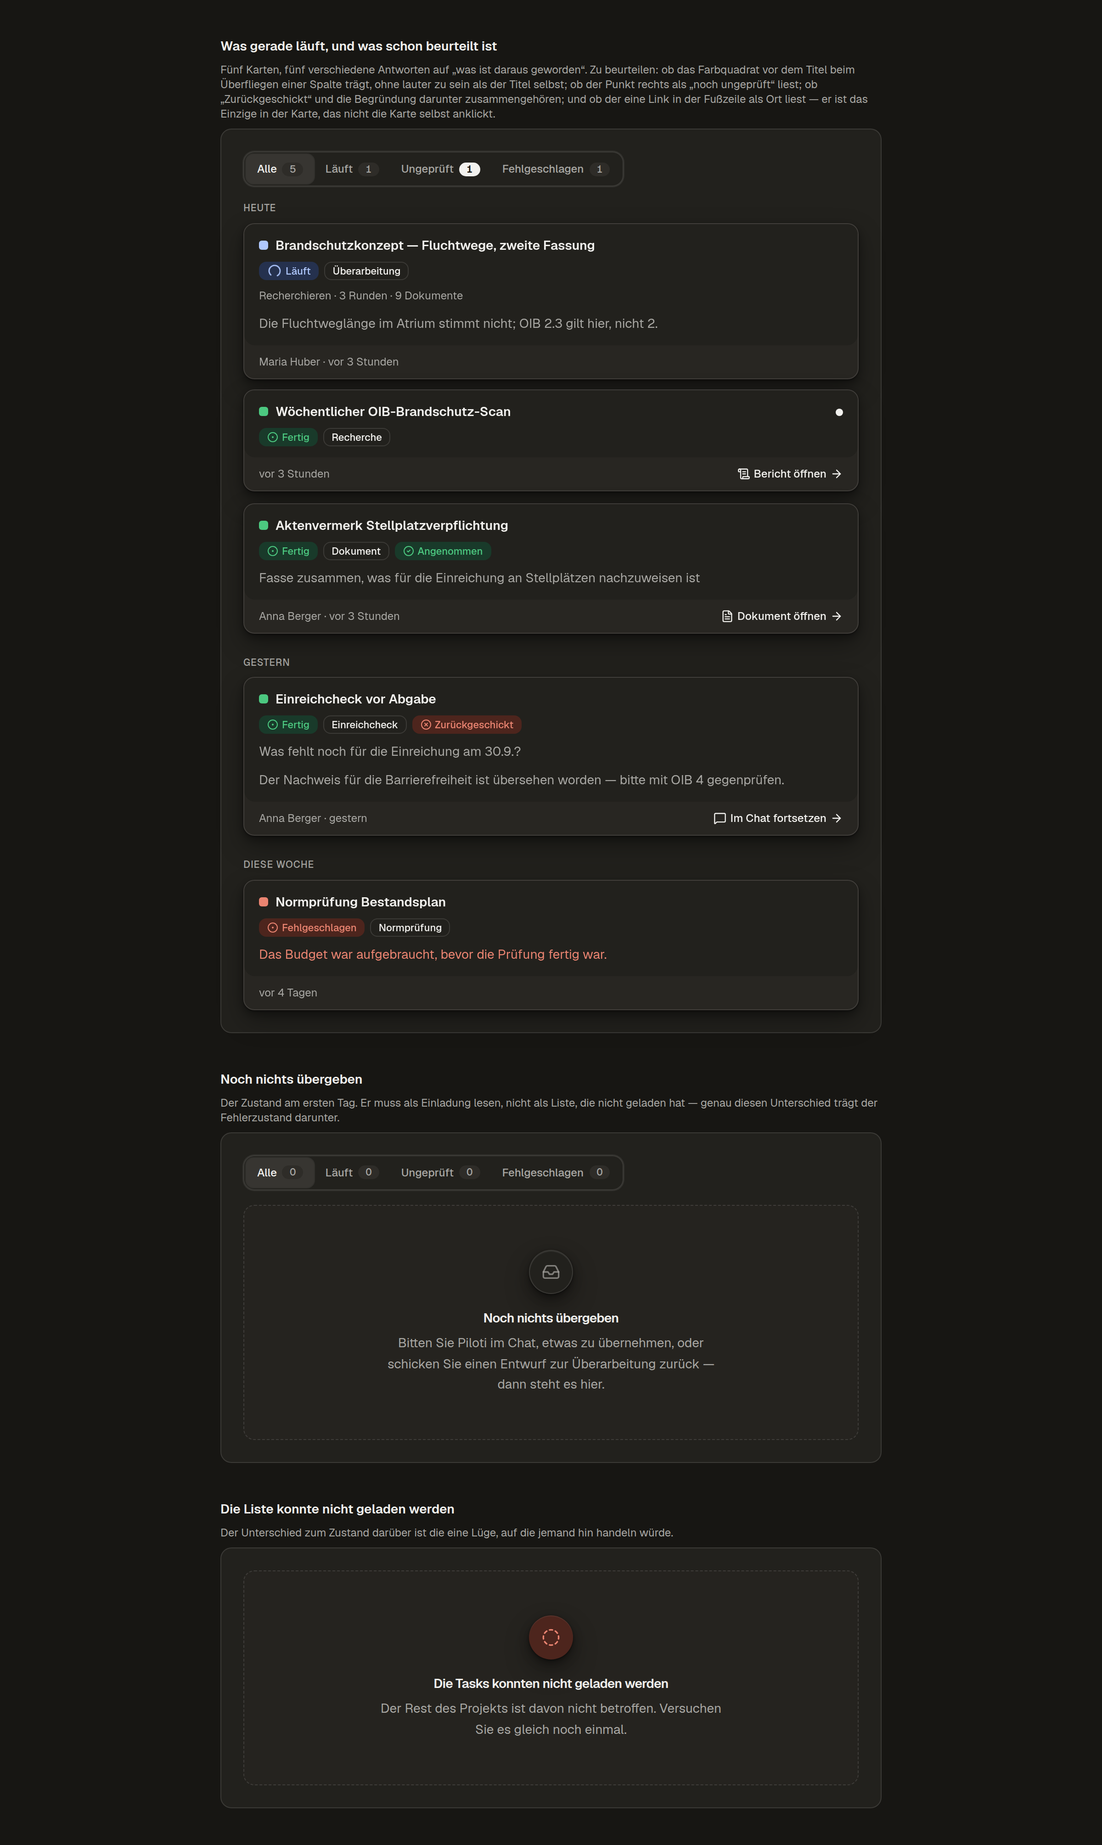
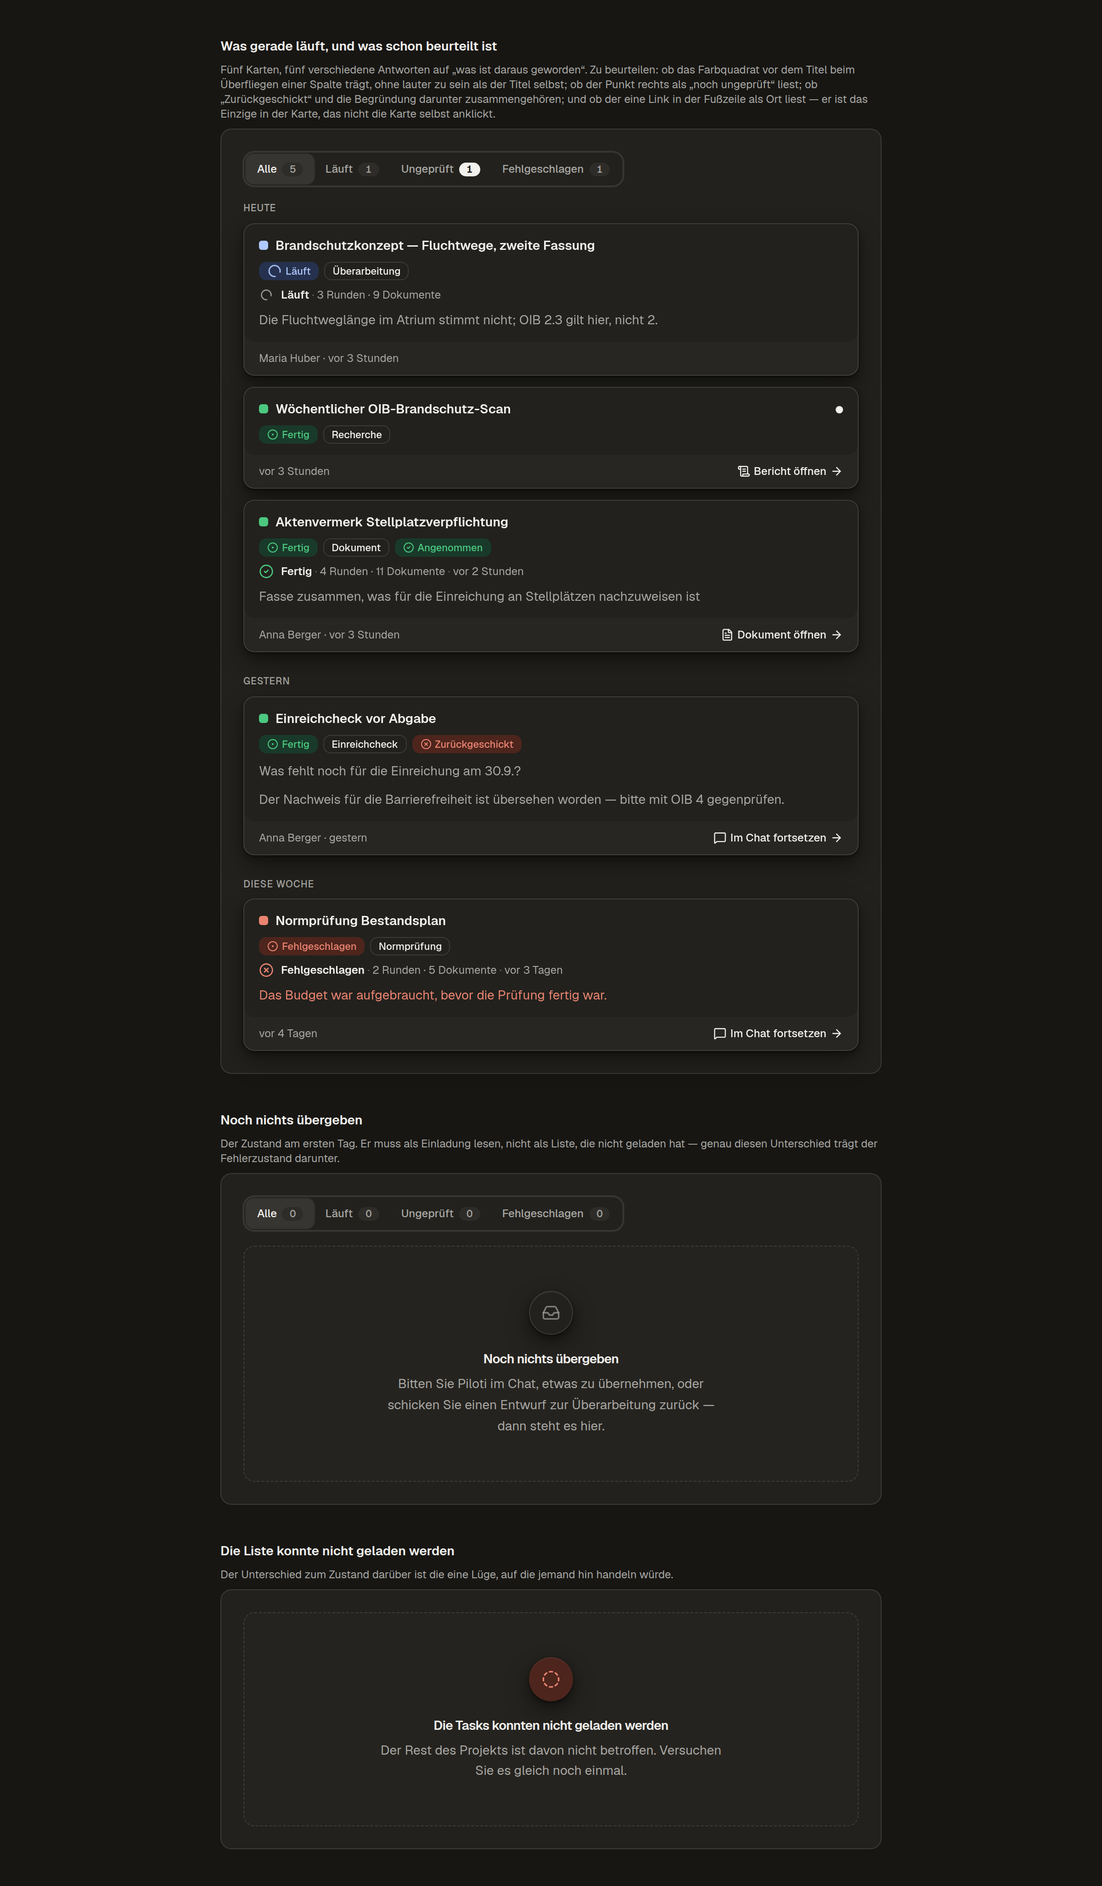
refactor(tasks): a task card shows the run line, not a second account of it
The card had its own sentence for what a run was doing — phase, rounds,
documents, assembled from the summary by hand — and it was shown only while
the task was active. Two renderers for one run is one retune away from two
different stories, and hiding the line once the run ends throws away the fact
that says how much work stands behind the result.

The card now composes `RunBlockLine`, the block's header reduced to a line:
the same glyph, the same status word, the same tallies, for every row that
has a run, dated by when it finished once it has. The projection loses the
phase it no longer needs and keeps the three facts that cross the wire.

`isActiveTaskRunStatus` moves into the vocabulary beside the statuses it
reads, where the run primitive can reach it too.

Claude-Session: https://claude.ai/code/session_01VczwjwUggBBYj9NgiX4XHk

diff --git a/frontends/ui/src/features/tasks/components/task-card.tsx b/frontends/ui/src/features/tasks/components/task-card.tsx
@@ -42,24 +42,12 @@ import type { LucideIcon } from 'lucide-react'
 import { Chip } from '@/components/ui/chip'
 import { RaisedCard, RaisedCardBody, RaisedCardFooter } from '@/components/ui/raised-card'
 import { Spinner } from '@/components/ui/spinner'
-import { useLocale, useTranslations, type Translator } from '@/i18n'
+import { RunBlockLine } from '@/features/runs/components/RunBlockLine'
+import { useLocale, useTranslations } from '@/i18n'
 import { formatAbsoluteTime, formatRelativeTime } from '@/lib/format'
 import type { TaskRunStatus } from '@/lib/tasks/task-vocabulary'
 import { cn } from '@/lib/utils'
-import { isActiveTask, taskResultTarget, type TaskRunSummary, type TaskWireRow } from '../lib/task-view'
-
-/**
- * "Recherchieren · 3 Runden · 9 Dokumente" — what the run is doing, as words.
- * The phase when one is open, else the status word (a run that is starting has
- * no phase yet); a tally only when it is above zero, because "0 Runden" is a
- * number that changes nothing for the reader.
- */
-function runSummaryLine(tRuns: Translator, summary: TaskRunSummary): string {
-  const parts = [summary.phase ? tRuns(`phase.${summary.phase}`) : tRuns(`status.${summary.status}`)]
-  if (summary.rounds > 0) parts.push(tRuns('tallies.rounds', { count: summary.rounds }))
-  if (summary.docs > 0) parts.push(tRuns('tallies.docs', { count: summary.docs }))
-  return parts.join(' · ')
-}
+import { isActiveTask, taskResultTarget, type TaskWireRow } from '../lib/task-view'
 
 /**
  * The chip tone per status — a `Record`, so a status added to the tuple has to
@@ -144,7 +132,6 @@ export interface TaskCardProps {
 
 export function TaskCard({ projectId, task, onSelect }: TaskCardProps): JSX.Element {
   const t = useTranslations('tasks')
-  const tRuns = useTranslations('runs')
   const { locale } = useLocale()
   const ReviewIcon = task.review ? REVIEW_ICON[task.review] : null
   const result = taskResultTarget(projectId, task)
@@ -227,14 +214,23 @@ export function TaskCard({ projectId, task, onSelect }: TaskCardProps): JSX.Elem
                 )}
               </div>
 
-              {/* What the run is doing right now, while it is doing it: the
-                  phase and the two tallies off the run's ledger (ADR-0062).
-                  Muted and one line — the card is about the task, and the
+              {/* The run, as the block's header reduced to one line: the same
+                  glyph, the same status word and the same tallies the thread
+                  shows, off the run's ledger (ADR-0062), so the index row and
+                  the block cannot disagree about the run they both describe.
+                  Without the title (the heading above IS the title) and
+                  without the trailing link (the tray's result link is the way
+                  into the thread); a finished row dates the line by when it
+                  finished. Compact — the card is about the task, and the
                   block in the thread is where the run is followed. */}
-              {active && task.runSummary && (
-                <p className="text-muted-foreground text-xs leading-relaxed" data-testid="task-run-summary">
-                  {runSummaryLine(tRuns, task.runSummary)}
-                </p>
+              {task.runSummary && (
+                <RunBlockLine
+                  ledger={null}
+                  status={task.runSummary.status}
+                  tallies={task.runSummary}
+                  at={active ? undefined : (task.finishedAt ?? undefined)}
+                  className="min-h-0 text-xs"
+                />
               )}
 
               {/* The requester's own sentence, clamped: in a column of cards an

diff --git a/frontends/ui/src/lib/tasks/list-projection.ts b/frontends/ui/src/lib/tasks/list-projection.ts
@@ -15,14 +15,17 @@
  *
  * ## The run summary
  *
- * An active row also carries what its run is doing, read off the run message's
- * ledger (ADR-0062) — the one muted line the card shows under its title. It is
- * a SECOND query, not a join: `task_runs` and `messages` are joined by an id
- * the run row holds, one page of runs is at most `RUN_LIST_LIMIT` rows, and
- * only the ACTIVE ones among them are looked up, because that is the only
- * state the card shows the line in. Four numbers cross the wire per row, never
- * the ledger: a run that has read fifty documents has a ledger the size of a
- * report, and a list of a hundred rows must not carry a hundred of them.
+ * A row also carries what its run did, read off the run message's ledger
+ * (ADR-0062) — the compact run line the card shows under its title, which is
+ * the block's header in the thread reduced to its glyph, its word and its
+ * tallies, so the index and the thread cannot disagree about one run. It is a
+ * SECOND query, not a join: `task_runs` and `messages` are joined by an id the
+ * run row holds, one page of runs is at most `RUN_LIST_LIMIT` rows, and every
+ * row on it that has a run message is looked up — a finished row shows its
+ * line too, because „Fertig · 3 Runden · 9 Dokumente" is how much work stands
+ * behind the result. Three facts cross the wire per row, never the ledger: a
+ * run that has read fifty documents has a ledger the size of a report, and a
+ * list of a hundred rows must not carry a hundred of them.
  */
 
 import 'server-only'
@@ -31,11 +34,8 @@ import { listRunLedgersByMessageIds } from '@/lib/conversations/repository'
 import type { TaskRun } from '@/lib/db/schema'
 import { sanitizeRunLedger } from '@/lib/runs/run-ledger'
 import type { RunLedger } from '@/lib/runs/run-ledger-types'
-import { activePhase, runDisplayStatus, runTallies } from '@/lib/runs/run-vocabulary'
+import { runDisplayStatus, runTallies } from '@/lib/runs/run-vocabulary'
 import { RUN_LIST_LIMIT } from './repository'
-
-/** The rows whose card shows the line. The same set `isActiveTask` draws. */
-const SUMMARISED_STATUSES: ReadonlySet<TaskRun['status']> = new Set(['queued', 'running'])
 
 export function toTaskWireRow(
   task: TaskRun,
@@ -82,24 +82,22 @@ export function toTaskWireRow(
   }
 }
 
-/** The four facts the card line needs, derived the way the block derives them. */
+/** The three facts the card line needs, derived the way the block derives them. */
 export function runSummaryOf(ledger: RunLedger | null): TaskRunSummary | null {
   if (!ledger) return null
   const { rounds, docs } = runTallies(ledger)
-  return { status: runDisplayStatus(ledger), phase: activePhase(ledger), rounds, docs }
+  return { status: runDisplayStatus(ledger), rounds, docs }
 }
 
 /**
- * The run summary of every ACTIVE run on the page that has a run message,
- * keyed by run id. One query, bounded to the page; a row whose ledger is
- * missing or unreadable simply has no entry.
+ * The run summary of every run on the page that has a run message, keyed by
+ * run id. One query, bounded to the page; a row whose ledger is missing or
+ * unreadable simply has no entry.
  */
 export async function loadRunSummaries(runs: readonly TaskRun[]): Promise<Map<string, TaskRunSummary>> {
   const messageIdByRun = new Map<string, string>()
   for (const run of runs.slice(0, RUN_LIST_LIMIT)) {
-    if (SUMMARISED_STATUSES.has(run.status) && run.runMessageId) {
-      messageIdByRun.set(run.id, run.runMessageId)
-    }
+    if (run.runMessageId) messageIdByRun.set(run.id, run.runMessageId)
   }
   if (messageIdByRun.size === 0) return new Map()
 

diff --git a/frontends/ui/src/features/tasks/components/task-list.spec.tsx b/frontends/ui/src/features/tasks/components/task-list.spec.tsx
@@ -61,36 +61,57 @@ describe('a task card', () => {
     expect(screen.getByTestId('task-status')).toHaveTextContent('Running')
   })
 
-  test('says what the run is doing while it is doing it, and nothing once it is done', () => {
-    const runSummary = { status: 'laeuft' as const, phase: 'recherchieren' as const, rounds: 3, docs: 9 }
+  test('wears the run block’s own line — glyph, status word, tallies — under the title', () => {
+    const runSummary = { status: 'laeuft' as const, rounds: 3, docs: 9 }
     const { rerender } = list({ tasks: [task({ status: 'running', runSummary })] })
-    expect(screen.getByTestId('task-run-summary')).toHaveTextContent('Researching · 3 rounds · 9 documents')
+    const line = screen.getByTestId('run-block-line')
+    expect(line).toHaveAttribute('data-status', 'laeuft')
+    expect(screen.getByTestId('run-glyph-laeuft')).toBeInTheDocument()
+    // The spinner speaks its label too, so the text is matched, not anchored.
+    expect(line).toHaveTextContent('Running · 3 rounds · 9 documents')
+    // No title (the heading is the title) and no link (the tray's is).
+    expect(screen.queryByTestId('run-line-open')).not.toBeInTheDocument()
 
-    // A run that is starting has no phase yet: the status word stands in, and
-    // zero tallies are left out rather than shown as zeros.
+    // A run that is starting: the word alone, and zero tallies are left out
+    // rather than shown as zeros.
     rerender(
       <TaskList
         projectId="p1"
-        tasks={[task({ status: 'queued', runSummary: { status: 'angelegt', phase: null, rounds: 0, docs: 0 } })]}
+        tasks={[task({ status: 'queued', runSummary: { status: 'angelegt', rounds: 0, docs: 0 } })]}
         filter={'all' as TaskFilter}
         onFilterChange={vi.fn()}
         onSelectTask={vi.fn()}
       />,
     )
-    expect(screen.getByTestId('task-run-summary')).toHaveTextContent(/^Starting$/)
+    expect(screen.getByTestId('run-block-line')).not.toHaveTextContent('round')
 
-    // Finished: the card is about the task again; the block in the thread is
-    // where the run is read.
+    // Finished: the same line with the block's word for done, dated by when
+    // it finished — the tallies say how much work stands behind the result.
     rerender(
       <TaskList
         projectId="p1"
-        tasks={[task({ status: 'succeeded', runSummary })]}
+        tasks={[
+          task({
+            status: 'succeeded',
+            finishedAt: '2026-09-16T05:00:00.000Z',
+            runSummary: { ...runSummary, status: 'fertig' },
+          }),
+        ]}
         filter={'all' as TaskFilter}
         onFilterChange={vi.fn()}
         onSelectTask={vi.fn()}
       />,
     )
-    expect(screen.queryByTestId('task-run-summary')).not.toBeInTheDocument()
+    const done = screen.getByTestId('run-block-line')
+    expect(done).toHaveAttribute('data-status', 'fertig')
+    expect(done).toHaveTextContent(/^Done · 3 rounds · 9 documents · /)
+    expect(screen.getByTestId('run-glyph-fertig')).toBeInTheDocument()
+    expect(done.querySelector('time')).toHaveAttribute('datetime', '2026-09-16T05:00:00.000Z')
+  })
+
+  test('shows no run line for a row that has no run message', () => {
+    list({ tasks: [task({ status: 'succeeded' })] })
+    expect(screen.queryByTestId('run-block-line')).not.toBeInTheDocument()
   })
 
   test('the WHOLE card opens the detail, not a hover-underlined title', async () => {

diff --git a/frontends/ui/src/lib/tasks/list-projection.spec.ts b/frontends/ui/src/lib/tasks/list-projection.spec.ts
@@ -80,14 +80,13 @@ beforeEach(() => {
 })
 
 describe('runSummaryOf', () => {
-  it('names the open phase and counts rounds and DISTINCT documents', () => {
-    expect(runSummaryOf(ledger())).toEqual({ status: 'laeuft', phase: 'recherchieren', rounds: 2, docs: 2 })
+  it('names the display status and counts rounds and DISTINCT documents', () => {
+    expect(runSummaryOf(ledger())).toEqual({ status: 'laeuft', rounds: 2, docs: 2 })
   })
 
-  it('has no phase for a run that has not started one, and nothing for no ledger', () => {
+  it('counts nothing for a run that has not started, and nothing for no ledger', () => {
     expect(runSummaryOf(ledger({ phases: [], steps: [], status: 'angelegt' }))).toEqual({
       status: 'angelegt',
-      phase: null,
       rounds: 0,
       docs: 0,
     })
@@ -96,8 +95,13 @@ describe('runSummaryOf', () => {
 })
 
 describe('loadRunSummaries', () => {
-  it('looks up only the active rows that have a run message, in one query bounded to the page', async () => {
-    vi.mocked(listRunLedgersByMessageIds).mockResolvedValue(new Map([['msg-1', ledger()]]))
+  it('looks up every row that has a run message, finished or not, in one query bounded to the page', async () => {
+    vi.mocked(listRunLedgersByMessageIds).mockResolvedValue(
+      new Map([
+        ['msg-1', ledger()],
+        ['msg-2', ledger({ status: 'fertig' })],
+      ]),
+    )
 
     const summaries = await loadRunSummaries([
       run(),
@@ -107,14 +111,19 @@ describe('loadRunSummaries', () => {
     ])
 
     expect(listRunLedgersByMessageIds).toHaveBeenCalledTimes(1)
-    expect(listRunLedgersByMessageIds).toHaveBeenCalledWith(['msg-1', 'msg-4'])
-    expect(summaries.get('run-1')).toEqual({ status: 'laeuft', phase: 'recherchieren', rounds: 2, docs: 2 })
+    expect(listRunLedgersByMessageIds).toHaveBeenCalledWith(['msg-1', 'msg-2', 'msg-4'])
+    expect(summaries.get('run-1')).toEqual({ status: 'laeuft', rounds: 2, docs: 2 })
+    // A finished row keeps its tallies: that is how much work stands behind it.
+    expect(summaries.get('run-2')).toEqual({ status: 'fertig', rounds: 2, docs: 2 })
     // A row whose ledger is missing simply has no entry.
     expect(summaries.has('run-4')).toBe(false)
   })
 
-  it('makes no query when nothing on the page is active', async () => {
-    const summaries = await loadRunSummaries([run({ status: 'succeeded' }), run({ id: 'r2', status: 'failed' })])
+  it('makes no query when nothing on the page has a run message', async () => {
+    const summaries = await loadRunSummaries([
+      run({ status: 'succeeded', runMessageId: null }),
+      run({ id: 'r2', status: 'failed', runMessageId: null }),
+    ])
 
     expect(summaries.size).toBe(0)
     expect(listRunLedgersByMessageIds).not.toHaveBeenCalled()

diff --git a/frontends/ui/src/lib/tasks/service.ts b/frontends/ui/src/lib/tasks/service.ts
@@ -35,6 +35,7 @@ import { resolvePeople } from '@/lib/sharing/directory'
 import type { TaskWireRow } from '@/features/tasks/lib/task-view'
 import { loadRunSummaries, toTaskWireRow } from './list-projection'
 import * as repository from './repository'
+import { isActiveTaskRunStatus } from './task-vocabulary'
 import type { ReviewTaskInput } from './types'
 
 export type TaskOutcomeStatus = 'success' | 'failure' | 'interrupted'
@@ -245,9 +246,11 @@ async function fileResultFor(
  *
  * The inbox type is the existing `job.completed` / `job.failed` pair: the
  * payload already carries the ids, and a second type would be a second
- * presentation for a row that says the same thing. `actorUserId: null` because
- * the work was Piloti's, and because `emitInboxItems` drops a row whose actor
- * is its recipient.
+ * presentation for a row that says the same thing. (`job.waiting`, the third
+ * of the family, is emitted where the ledger turns to `wartet` —
+ * `lib/runs/service.ts` — because that is the only tier that sees it.)
+ * `actorUserId: null` because the work was Piloti's, and because
+ * `emitInboxItems` drops a row whose actor is its recipient.
  *
  * Idempotent: the unique `(recipient, group_key)` upsert folds a retried report
  * into the existing row.
@@ -277,6 +280,10 @@ export async function recordRunOutcome(
         jobId: run.definitionId,
         runId: run.id,
         conversationId: run.conversationId,
+        // With the message, the row lands ON the run block in its thread
+        // (ADR-0062) rather than in the task drawer; null for a run submitted
+        // before run messages existed, and the drawer is the fallback.
+        runMessageId: run.runMessageId,
         taskId: run.id,
         filedDocumentId: completed.filed?.documentId ?? null,
         filedFilename: completed.filed?.filename ?? null,
@@ -333,7 +340,7 @@ export async function reviewTask(
   await requireProjectAccess(session, projectId, 'project:edit')
   const run = await repository.findRunInProject(taskId, projectId, session.organizationId)
   if (!run) throw new NotFoundError('Task not found')
-  if (run.status === 'queued' || run.status === 'running') {
+  if (isActiveTaskRunStatus(run.status)) {
     throw new ConflictError('A task can only be reviewed once it has finished')
   }
 

diff --git a/frontends/ui/src/app/dev/task-list/page.tsx b/frontends/ui/src/app/dev/task-list/page.tsx
@@ -8,7 +8,9 @@
  *     fortnight: something running, something waiting for a person, something
  *     that was sent back with words, something that failed. What the shot is
  *     for is the CARD — the status swatch on the title line (the same rounded
- *     square the timetable's legend uses), the unreviewed dot, the recency
+ *     square the timetable's legend uses), the compact run line under the
+ *     title (the block's own glyph, word and tallies, on the running, the
+ *     finished and the failed card alike), the unreviewed dot, the recency
  *     headings that group the column, the filter row with its counts, and the
  *     one result link on the tray that is the only thing inside the card that
  *     is not the card's own click target.
@@ -55,7 +57,7 @@ const TASKS: TaskWireRow[] = [
     goal: 'Die Fluchtweglänge im Atrium stimmt nicht; OIB 2.3 gilt hier, nicht 2.',
     status: 'running',
     requesterName: 'Maria Huber',
-    runSummary: { status: 'laeuft', phase: 'recherchieren', rounds: 3, docs: 9 },
+    runSummary: { status: 'laeuft', rounds: 3, docs: 9 },
   }),
   row({
     id: 'task-1b',
@@ -73,6 +75,9 @@ const TASKS: TaskWireRow[] = [
     goal: 'Fasse zusammen, was für die Einreichung an Stellplätzen nachzuweisen ist',
     filedDocumentId: 'doc-9',
     review: 'accepted',
+    conversationId: 'conv-2',
+    runMessageId: 'msg-2',
+    runSummary: { status: 'fertig', rounds: 4, docs: 11 },
   }),
   row({
     id: 'task-3',
@@ -93,6 +98,10 @@ const TASKS: TaskWireRow[] = [
     error: 'Das Budget war aufgebraucht, bevor die Prüfung fertig war.',
     requesterName: null,
     createdAt: new Date(Date.now() - 4 * 24 * 60 * 60 * 1000).toISOString(),
+    finishedAt: new Date(Date.now() - 4 * 24 * 60 * 60 * 1000 + 20 * 60 * 1000).toISOString(),
+    conversationId: 'conv-4',
+    runMessageId: 'msg-4',
+    runSummary: { status: 'fehlgeschlagen', rounds: 2, docs: 5 },
   }),
 ]
 

diff --git a/frontends/ui/src/features/tasks/lib/task-view.ts b/frontends/ui/src/features/tasks/lib/task-view.ts
@@ -13,7 +13,7 @@
  * two ends from drifting.
  */
 
-import type { RunPhase, RunStatus } from '@/lib/runs/run-ledger-types'
+import type { RunStatus } from '@/lib/runs/run-ledger-types'
 import type {
   TaskKind,
   TaskReview,
@@ -72,18 +72,17 @@ export interface TaskWireRow {
   /** The sanitized, user-safe error the worker reported. */
   error: string | null
   /**
-   * What the run is doing right now, read off its message's ledger
-   * (ADR-0062): the one muted line a card shows under its title while the
-   * task is active. Filled only for active rows that have a run message —
-   * absent or null otherwise, and the card shows nothing.
+   * What the run did, read off its message's ledger (ADR-0062): the compact
+   * run line a card shows under its title — the same glyph, word and tallies
+   * as the block's header in the thread. Filled for every row on the page that
+   * has a run message; absent or null otherwise, and the card shows no line.
    */
   runSummary?: TaskRunSummary | null
 }
 
-/** The four facts a card line needs from a ledger; nothing a block would. */
+/** The three facts the card's run line needs from a ledger; nothing a block would. */
 export interface TaskRunSummary {
   status: RunStatus
-  phase: RunPhase | null
   rounds: number
   docs: number
 }

diff --git a/frontends/ui/src/lib/tasks/task-vocabulary.ts b/frontends/ui/src/lib/tasks/task-vocabulary.ts
@@ -72,6 +72,16 @@ export const TASK_RUN_STATUSES = [
 ] as const
 export type TaskRunStatus = (typeof TASK_RUN_STATUSES)[number]
 
+/**
+ * The run is still in the worker's hands: nothing about it can be judged yet,
+ * and it is the only state a cancel can reach. `queued` counts — a run stuck
+ * before its first status transition would otherwise be un-cancellable while
+ * still holding a slot (the same reason the backend cancels `SUBMITTED` jobs).
+ */
+export function isActiveTaskRunStatus(status: TaskRunStatus): boolean {
+  return status === 'queued' || status === 'running'
+}
+
 /** How a person judged the result. Null until somebody did. */
 export const TASK_REVIEWS = ['accepted', 'rejected'] as const
 export type TaskReview = (typeof TASK_REVIEWS)[number]
